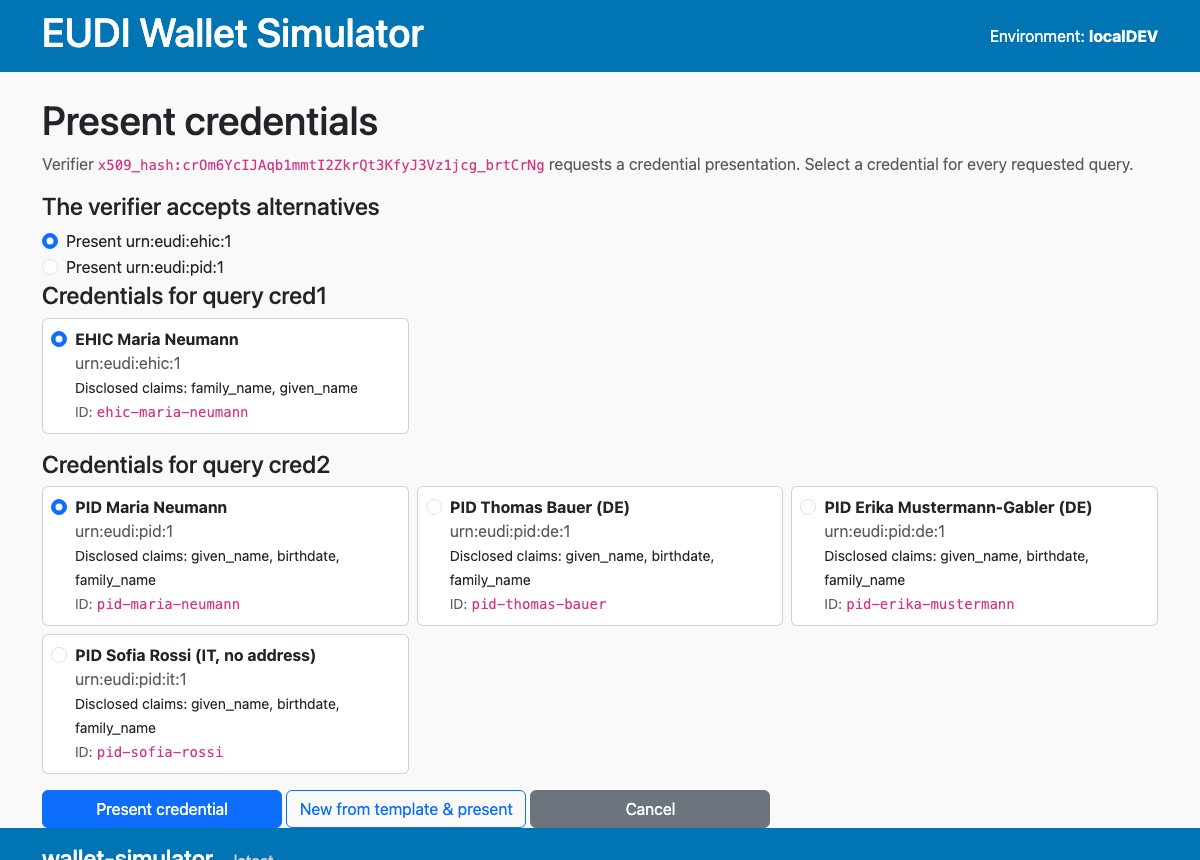
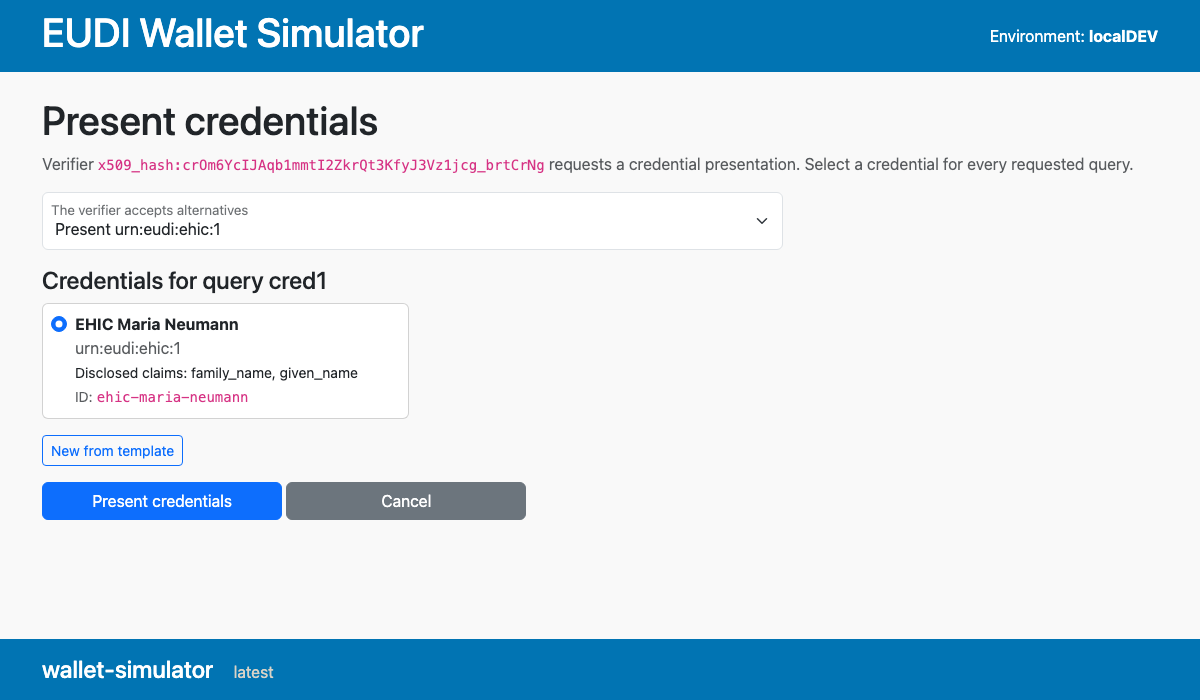
feat: switch alternatives and claim sets to dropdowns with dynamic rows

Changed region(s): [[0.0, 0.39, 1.0, 1.0], [0.0, 0.0, 1.0, 0.36], [0.6783, 0.57, 0.925, 0.72]]

diff --git a/src/main/resources/views/presentation_select.html b/src/main/resources/views/presentation_select.html
@@ -26,42 +26,38 @@
             No credential in this wallet matches the verifier's query.
         </div>
 
-        <div data-th-each="choice : ${setChoices}" data-th-if="${choice.options.size() > 1 or !choice.required}">
-            <h4>The verifier accepts alternatives</h4>
-            <div class="form-check" data-th-each="option, optStat : ${choice.options}">
-                <input class="form-check-input" type="radio"
-                       data-th-name="'setOption[' + ${choice.index} + ']'"
-                       data-th-id="'set-option-' + ${choice.index} + '-' + ${option.index}"
-                       data-th-value="${option.index}"
-                       data-th-attr="data-query-ids=${#strings.listJoin(option.queryIds, ',')}"
-                       data-th-checked="${optStat.first}"/>
-                <label class="form-check-label"
-                       data-th-for="'set-option-' + ${choice.index} + '-' + ${option.index}"
-                       data-th-text="'Present ' + ${option.label}">option</label>
-            </div>
-            <div class="form-check mb-3" data-th-unless="${choice.required}">
-                <input class="form-check-input" type="radio"
-                       data-th-name="'setOption[' + ${choice.index} + ']'"
-                       data-th-id="'set-option-' + ${choice.index} + '-skip'"
-                       value="skip"/>
-                <label class="form-check-label"
-                       data-th-for="'set-option-' + ${choice.index} + '-skip'">Do not present</label>
+        <div class="row g-2 mb-3" data-th-each="choice : ${setChoices}"
+             data-th-if="${choice.options.size() > 1 or !choice.required}">
+            <div class="col-8 form-floating">
+                <select class="form-select" data-alternatives-select
+                        data-th-id="'set-option-' + ${choice.index}"
+                        data-th-name="'setOption[' + ${choice.index} + ']'">
+                    <option data-th-each="option : ${choice.options}"
+                            data-th-value="${option.index}"
+                            data-th-attr="data-query-ids=${#strings.listJoin(option.queryIds, ',')}"
+                            data-th-text="'Present ' + ${option.label}">option</option>
+                    <option data-th-unless="${choice.required}" value="skip" data-query-ids="">
+                        Do not present
+                    </option>
+                </select>
+                <label data-th-for="'set-option-' + ${choice.index}">The verifier accepts alternatives</label>
             </div>
         </div>
 
-        <div data-th-each="slot : ${slots}" data-th-if="${not #lists.isEmpty(slot.matches)}">
+        <div data-th-each="slot : ${slots}" data-th-if="${not #lists.isEmpty(slot.matches)}"
+             data-th-attr="data-query-slot=${slot.queryId}">
             <h4 data-th-text="'Credentials for query ' + ${slot.queryId}">Credentials</h4>
-            <div class="mb-2" data-th-if="${slot.matches[0].claimSetOptions.size() > 1}">
-                <p class="mb-1">The verifier accepts several claim sets, choose which one to answer with:</p>
-                <div class="form-check" data-th-each="option : ${slot.matches[0].claimSetOptions}">
-                    <input class="form-check-input" type="radio"
-                           data-th-name="'claimSet[' + ${slot.queryId} + ']'"
-                           data-th-id="'claim-set-' + ${slot.queryId} + '-' + ${option.index}"
-                           data-th-value="${option.index}"
-                           data-th-checked="${option.index == slot.matches[0].claimSetOptions[0].index}"/>
-                    <label class="form-check-label"
-                           data-th-for="'claim-set-' + ${slot.queryId} + '-' + ${option.index}"
-                           data-th-text="${option.label}">claims</label>
+            <div class="row g-2 mb-3" data-th-if="${slot.claimSetOptions.size() > 1}">
+                <div class="col-8 form-floating">
+                    <select class="form-select" data-claim-set-select
+                            data-th-attr="data-query-id=${slot.queryId}"
+                            data-th-id="'claim-set-' + ${slot.queryId}"
+                            data-th-name="'claimSet[' + ${slot.queryId} + ']'">
+                        <option data-th-each="option : ${slot.claimSetOptions}"
+                                data-th-value="${option.index}"
+                                data-th-text="${option.label}">claims</option>
+                    </select>
+                    <label data-th-for="'claim-set-' + ${slot.queryId}">Claim set to answer with</label>
                 </div>
             </div>
             <div class="row row-cols-3 g-2 mb-3">
@@ -77,28 +73,31 @@
                                    data-th-for="'select-' + ${slot.queryId} + '-' + ${match.credential.id}">
                                 <strong data-th-text="${match.credential.name}">Credential</strong><br/>
                                 <span class="text-muted" data-th-text="${match.credential.vct}">vct</span><br/>
-                                <small data-th-if="${match.claimSetOptions.size() == 1}">Disclosed claims:
-                                    <span data-th-text="${#strings.listJoin(match.claimsToDiscloseDisplay, ', ')}">claims</span>
-                                </small>
-                                <small data-th-if="${match.claimSetOptions.size() > 1}"
-                                       data-th-text="${match.claimSetOptions.size()} + ' claim set options'">options</small><br/>
+                                <small data-th-each="option : ${match.claimSetOptions}"
+                                       data-th-attr="data-claim-set-query=${slot.queryId},data-claim-set-option=${option.index}">Disclosed claims:
+                                    <span data-th-text="${option.label}">claims</span>
+                                </small><br/>
                                 <small class="text-muted">ID:</small> <code data-th-text="${match.credential.id}">id</code>
                             </label>
                         </div>
                     </div>
                 </div>
             </div>
+            <button type="submit" class="btn btn-outline-primary btn-sm mb-3"
+                    name="editQueryId" data-th-value="${slot.queryId}"
+                    data-th-id="'new-from-template-' + ${slot.queryId}"
+                    data-th-formaction="@{__${basepath}__/authorize/edit}"
+                    formnovalidate>New from template</button>
         </div>
 
         <button type="submit" class="btn btn-primary" id="present-credential" style="width:15rem"
-                data-th-disabled="${!satisfiable}">Present credential</button>
-        <button type="submit" class="btn btn-outline-primary" id="new-from-template-present" style="width:15rem"
-                data-th-formaction="@{__${basepath}__/authorize/edit}"
-                data-th-disabled="${!satisfiable}">New from template &amp; present</button>
+                data-th-disabled="${!satisfiable}"
+                data-th-text="${slots.size() > 1} ? 'Present credentials' : 'Present credential'">Present credential</button>
         <button type="submit" class="btn btn-secondary" id="cancel-presentation" style="width:15rem"
                 data-th-formaction="@{__${basepath}__/authorize/cancel}">Cancel</button>
     </form>
 </div>
+<script src="" data-th-src="@{__${basepath}__/js/alternatives.js}"></script>
 <footer data-th-replace="~{fragments/snippets :: footer}"></footer>
 </body>
 </html>

diff --git a/src/main/resources/static/js/alternatives.js b/src/main/resources/static/js/alternatives.js
@@ -1,0 +1,39 @@
+// Shows only the credential queries and claims of the currently selected alternatives. Every
+// value is still submitted with the form, so the page works without this script as well.
+function applyAlternatives() {
+    const selects = document.querySelectorAll('select[data-alternatives-select]');
+    const controlled = new Set();
+    const selected = new Set();
+    selects.forEach(select => {
+        Array.from(select.options).forEach(option => {
+            (option.dataset.queryIds || '').split(',').filter(Boolean).forEach(id => controlled.add(id));
+        });
+        const chosen = select.options[select.selectedIndex];
+        (chosen.dataset.queryIds || '').split(',').filter(Boolean).forEach(id => selected.add(id));
+    });
+    document.querySelectorAll('[data-query-slot]').forEach(slot => {
+        const queryId = slot.dataset.querySlot;
+        slot.hidden = controlled.has(queryId) && !selected.has(queryId);
+    });
+}
+
+function applyClaimSets() {
+    document.querySelectorAll('select[data-claim-set-select]').forEach(select => {
+        const queryId = select.dataset.queryId;
+        const chosen = select.value;
+        document.querySelectorAll('[data-claim-set-query="' + queryId + '"]').forEach(entry => {
+            entry.hidden = entry.dataset.claimSetOption !== chosen;
+        });
+    });
+}
+
+function applyAll() {
+    applyAlternatives();
+    applyClaimSets();
+}
+
+document.addEventListener('DOMContentLoaded', () => {
+    document.querySelectorAll('select[data-alternatives-select], select[data-claim-set-select]')
+        .forEach(select => select.addEventListener('change', applyAll));
+    applyAll();
+});

diff --git a/src/main/java/de/arbeitsagentur/opdt/walletsim/web/AuthorizeController.java b/src/main/java/de/arbeitsagentur/opdt/walletsim/web/AuthorizeController.java
@@ -23,6 +23,7 @@ import java.util.LinkedHashMap;
 import java.util.LinkedHashSet;
 import java.util.List;
 import java.util.Map;
+import java.util.Optional;
 import java.util.Set;
 import java.util.stream.Collectors;
 import org.slf4j.Logger;
@@ -128,6 +129,12 @@ public class AuthorizeController {
         return complete(result, model);
     }
 
+    private static Optional<String> firstNonBlank(String... values) {
+        return java.util.Arrays.stream(values)
+                .filter(value -> value != null && !value.isBlank())
+                .findFirst();
+    }
+
     private static int chosenClaimSetIndex(SelectionForm form, String queryId) {
         try {
             return Integer.parseInt(form.getClaimSet().getOrDefault(queryId, "0"));
@@ -160,13 +167,15 @@ public class AuthorizeController {
 
     @PostMapping("/authorize/edit")
     public String editDuringFlow(
+            @RequestParam(name = "editQueryId", required = false) String editQueryId,
             @RequestParam(name = "credentialId", required = false) String credentialId,
             @ModelAttribute SelectionForm form,
             Model model) {
-        String templateId = credentialId != null && !credentialId.isBlank()
-                ? credentialId
-                : form.firstSelectedCredentialId()
-                        .orElseThrow(() -> new InvalidRequestException("No credential selected for editing"));
+        String selectedForQuery =
+                editQueryId == null ? null : form.getSelection().get(editQueryId);
+        String templateId = firstNonBlank(selectedForQuery, credentialId)
+                .or(form::firstSelectedCredentialId)
+                .orElseThrow(() -> new InvalidRequestException("No credential selected for editing"));
         CredentialEditForm editForm = editForms.cloneForm(templateId);
         editForm.setFlowState(form.getFlowState());
         return editView(editForm, model);

diff --git a/src/main/java/de/arbeitsagentur/opdt/walletsim/oid4vp/QuerySlot.java b/src/main/java/de/arbeitsagentur/opdt/walletsim/oid4vp/QuerySlot.java
@@ -1,6 +1,25 @@
 package de.arbeitsagentur.opdt.walletsim.oid4vp;
 
+import java.util.ArrayList;
+import java.util.LinkedHashSet;
 import java.util.List;
+import java.util.Set;
 
 // One requested DCQL credential query with every credential that can answer it.
-public record QuerySlot(String queryId, List<CredentialMatch> matches) {}
+public record QuerySlot(String queryId, List<CredentialMatch> matches) {
+
+    // every claim set option any matching credential can satisfy, in the verifier's order
+    public List<ClaimSetOption> claimSetOptions() {
+        Set<Integer> seen = new LinkedHashSet<>();
+        List<ClaimSetOption> options = new ArrayList<>();
+        for (CredentialMatch match : matches) {
+            for (ClaimSetOption option : match.claimSetOptions()) {
+                if (seen.add(option.index())) {
+                    options.add(option);
+                }
+            }
+        }
+        options.sort((left, right) -> Integer.compare(left.index(), right.index()));
+        return options;
+    }
+}

diff --git a/src/test/java/de/arbeitsagentur/opdt/walletsim/oid4vp/CredentialAndClaimSetsTest.java b/src/test/java/de/arbeitsagentur/opdt/walletsim/oid4vp/CredentialAndClaimSetsTest.java
@@ -137,9 +137,10 @@ class CredentialAndClaimSetsTest {
             String picker =
                     client().get().uri(authorizeUri(verifier)).retrieve().body(String.class);
             assertThat(picker)
-                    .as("both alternatives are offered as a choice")
-                    .contains("id=\"set-option-0-0\"")
-                    .contains("id=\"set-option-0-1\"");
+                    .as("the alternatives are offered as a dropdown")
+                    .contains("id=\"set-option-0\"")
+                    .contains("data-query-ids=\"pid,extra\"")
+                    .contains("data-query-ids=\"pid\"");
             String flowState = extractHiddenField(picker, "flowState");
 
             ResponseEntity<String> submit = client().post()

diff --git a/README.md b/README.md
@@ -89,9 +89,14 @@ satisfiable claim set of a query is listed for selection.
 
 ![Credential picker](docs/wallet-picker.png)
 
-*Present credential* answers directly. *New from template & present* clones the selected
-credential, lets you change the claims, then issues and presents the new credential in one step.
-Every issued credential gets a fresh holder binding key.
+The alternatives are dropdowns. Choosing one switches the credential rows below to exactly the
+queries that alternative requests, which keeps the page readable when a verifier offers many
+combinations. The claim set dropdown per query works the same way and updates the disclosed
+claims shown on each credential.
+
+*Present credentials* answers with one presentation per requested query. Each query row has its
+own *New from template*, which clones the credential selected in that row, lets you change the
+claims, then issues and presents it. Every issued credential gets a fresh holder binding key.
 
 Conformance warnings appear on the picker when the verifier request violates OID4VP or HAIP. In
 `strict` mode such requests are refused and the wallet answers the verifier with an
@@ -100,27 +105,34 @@ responses are encrypted for `direct_post.jwt`.
 
 ## Automating the UI
 
-The UI is server rendered without JavaScript and every interactive element has a stable id.
-Playwright and similar frameworks can rely on these selectors.
+The UI is server rendered and every interactive element has a stable id. One small script toggles
+the visibility of the selected alternatives, everything else is plain form posts. Playwright and
+similar frameworks can rely on these selectors.
 
 | Selector | Element |
 |---|---|
 | `[data-credential-id="<id>"]` | Credential card on the home page and the picker |
 | `#select-<id>` | Radio button that selects a credential on the home page |
 | `#select-<queryId>-<id>` | Radio button on the picker, one group per DCQL credential query |
-| `#present-credential`, `#new-from-template-present`, `#cancel-presentation` | Actions on the picker |
+| `#present-credential`, `#cancel-presentation` | Actions on the picker |
+| `#new-from-template-<queryId>` | Clone the credential selected for that query and present it |
 | `#new-from-template`, `#new-credential`, `#toggle-status-<id>` | Actions on the home page |
 | `#credential-id`, `#credential-name`, `#credential-vct`, `#validity-days` | Edit form header fields |
 | `#claim-<name>` | One input per claim on the edit form. Nested claims use dot notation, for example `claim-address.locality` |
 | `#always-disclosed-<name>` | Checkbox marking a claim as always disclosed |
-| `#set-option-<setIndex>-<optionIndex>`, `#set-option-<setIndex>-skip` | Credential set choice on the picker. The radio carries `data-query-ids` |
-| `#claim-set-<queryId>-<optionIndex>` | Claim set choice on the picker |
+| `#set-option-<setIndex>` | Credential set dropdown on the picker. Each option carries `data-query-ids`, the value `skip` drops an optional set |
+| `#claim-set-<queryId>` | Claim set dropdown for a query on the picker |
 | `#new-claim-name`, `#new-claim-value`, `#add-claim` | Add a claim on the edit form |
 | `#issue-credential`, `#cancel-edit` | Edit form actions |
 | `#conformance-warnings`, `#form-error` | Warning and error containers |
 
+Switch alternatives with `selectOption` on the dropdown. The rows of the other alternatives carry
+the `hidden` attribute, so a framework waiting for visibility naturally waits for the right row
+instead of clicking something the verifier did not ask for.
+
 A full flow needs no fixed waits. Each action is a plain form post and the next page contains the
-selectors above.
+selectors above. Clients that do not run scripts, for example curl, see all rows and can post the
+same form values directly. `examples/keycloak/smoke-test.sh` drives the whole login that way.
 
 ## Configuration
 

diff --git a/examples/keycloak/README.md b/examples/keycloak/README.md
@@ -37,6 +37,11 @@ set in optional mode. The verifier therefore accepts either one, and the picker 
 which credential type to answer with. Both types are part of the simulator's default wallet
 content.
 
+The extension builds the DCQL query from its mappers and supports two credential set modes,
+`optional` for one option per credential type and `all` for one option requesting every type.
+Richer combinations such as "both credentials or the PID alone" cannot be expressed by this
+verifier. The simulator handles them and covers them with tests.
+
 The admin console is at <http://localhost:8080/admin> with user `admin` and password `admin`.
 
 ## Trying revocation
